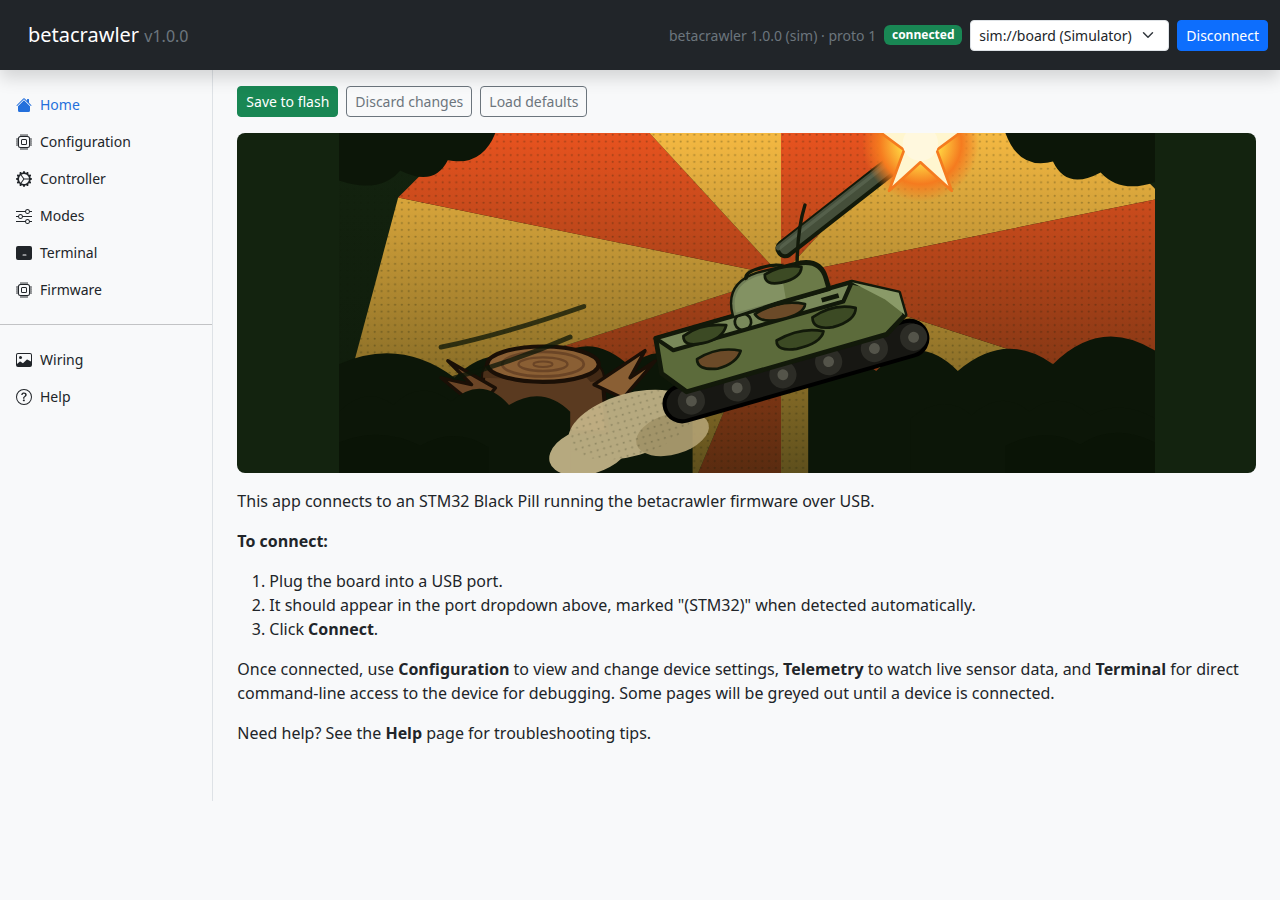
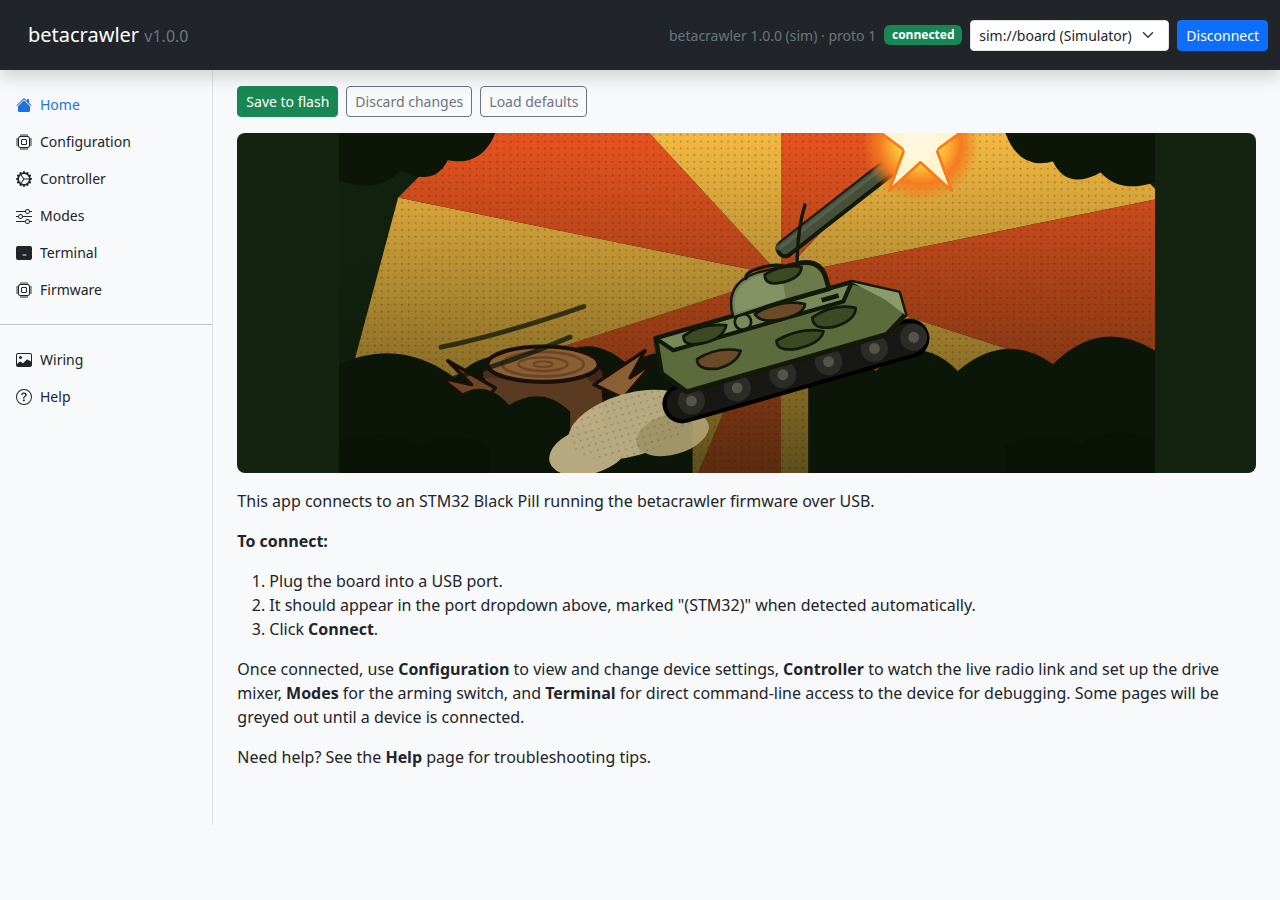
docs: add the Drive it section
Three pages taking a flashed board to a vehicle that drives the way you
want: starting the server and connecting, the ordered bring-up, and the
tuning knobs.

First setup is ordered deliberately -- bind, CRSF pad, protocol, verify
channels, assign sticks, arm switch, ESC direction, save -- because each
step is unverifiable until the one before it has taken.

The app's Home page pointed at a Telemetry page that the nav does not
have; it now names the pages that exist.

Changed region(s): [[0.1875, 0.7156, 0.9688, 0.8711]]

diff --git a/app/web/pages/home.html b/app/web/pages/home.html
@@ -9,7 +9,8 @@
             <li>Click <strong>Connect</strong>.</li>
           </ol>
           <p>Once connected, use <strong>Configuration</strong> to view and change device settings,
-             <strong>Telemetry</strong> to watch live sensor data, and <strong>Terminal</strong> for direct
+             <strong>Controller</strong> to watch the live radio link and set up the drive mixer,
+             <strong>Modes</strong> for the arming switch, and <strong>Terminal</strong> for direct
              command-line access to the device for debugging. Some pages will be greyed out until a device is
              connected.</p>
           <p>Need help? See the <strong>Help</strong> page for troubleshooting tips.</p>

diff --git a/docs/drive/first-setup.md b/docs/drive/first-setup.md
@@ -1,0 +1,98 @@
+# First setup
+
+This is the page that decides whether your vehicle drives properly. Work through it in order —
+each step depends on the one before it.
+
+!!! danger "Chock the tracks up off the ground"
+
+    Until you have been all the way through this page at least once, prop the chassis up so the
+    tracks spin free. An arming switch in the wrong place or a mis-assigned channel means the
+    vehicle takes off across the room the moment it arms.
+
+## 1. Bind the receiver
+
+Bind the receiver to your handset using its own procedure — Betacrawler is not involved and
+cannot help here.
+
+## 2. Switch the receiver pad to CRSF
+
+A receiver's output pads ship configured as PWM servo outputs. One must be reassigned to CRSF in
+the receiver's own menu. Nothing arrives until you do, and there is no error message to tell you
+so — the channels simply stay empty.
+
+## 3. Set the protocol
+
+On the **Controller** page, set **Protocol**:
+
+- `elrs` — the default, and what you want for an ELRS receiver.
+- `crossfire` — for a TBS Crossfire receiver.
+
+## 4. Check the channels are arriving
+
+![The Controller page, showing live channels and the drive mixer](../assets/screenshots/controller.png)
+
+The **RC Channels** panel shows every channel as a live bar. Move the sticks on your handset and
+watch them move.
+
+If nothing moves, stop here — steps 1 to 3 have not taken. Everything after this depends on the
+channels arriving.
+
+## 5. Assign the sticks
+
+Still on **Controller**:
+
+| Setting | Default | What it is |
+|---|---|---|
+| Throttle Src | `ch2` | Forwards and backwards |
+| Steer Src | `ch1` | Left and right |
+
+Those defaults suit a Mode 2 handset, which puts elevator on channel 2 and aileron on channel 1 —
+the pair that falls under your thumbs. Change them if your handset differs.
+
+Watch the **Left Output** and **Right Output** values as you move the sticks. Push throttle
+forward and both should rise together; steer and they should move apart.
+
+## 6. Set the arming switch
+
+![The Modes page, showing the arm switch and its range](../assets/screenshots/modes.png)
+
+On the **Modes** page, the **ARM** row picks which switch arms the vehicle:
+
+| Setting | Default | What it is |
+|---|---|---|
+| Arm Src | `ch5` | The channel your arming switch is on. `none` disables arming entirely. |
+| Arm Min | 1700 µs | Bottom of the "armed" band |
+| Arm Max | 2000 µs | Top of the "armed" band |
+
+The defaults expect a two-position switch on channel 5, armed when flipped up. Flip your switch
+and check the marker moves in and out of the highlighted band.
+
+While disarmed, both ESC outputs are held at neutral no matter what the sticks do.
+
+## 7. Set both ESCs to bidirectional
+
+This one is done in **BLHeli Configurator**, not in Betacrawler. Connect each ESC in turn and set
+its motor direction to **Bidirectional**.
+
+The firmware already expects this: `esc0.direction` and `esc1.direction` both default to
+`bidirectional`. If you skip it, the vehicle will only ever drive forwards.
+
+## 8. Save
+
+Press **Save to flash**.
+
+Changes apply to the running board the instant you make them, but they live in RAM until you
+save. Power-cycle without saving and you are back to where you started.
+
+## 9. First drive
+
+With the tracks still off the ground, arm and give it a little throttle. Check:
+
+- Both tracks turn the same way for forward throttle.
+- Steering makes them differ.
+- Disarming stops both.
+
+If one track runs backwards, swap any two motor wires on that ESC. If the two tracks are swapped
+left-for-right, change `esc0.src` and `esc1.src` rather than rewiring.
+
+Then put it on the ground and go to [Tuning](tuning.md).

diff --git a/docs/drive/tuning.md b/docs/drive/tuning.md
@@ -1,0 +1,57 @@
+# Tuning
+
+Once it drives, these are the settings that change how it drives. All of them are on the
+**Controller** page unless noted, and all apply the instant you change them — press **Save to
+flash** when you are happy.
+
+## Speed and steering limits
+
+Three independent caps, each a percentage of full authority, all defaulting to 100:
+
+| Setting | Range | What it does |
+|---|---|---|
+| Forward Ratio | 0–100% | Caps forward speed |
+| Reverse Ratio | 0–100% | Caps reverse speed |
+| Steer Ratio | 0–100% | Caps how much steering can differ the two tracks |
+
+They are deliberately independent. Capping forward speed leaves your pivot-on-the-spot alone,
+because a pivot happens at zero throttle. Capping steering leaves straight-line speed alone.
+
+A heavy chassis with fast motors is usually much easier to drive with Forward and Reverse pulled
+down to 60–70% and Steer lower still.
+
+## Deadband
+
+**Channel Deadband** (`rx.deadband_us`, 0–200 µs, default 0) ignores small stick movements around
+centre.
+
+Raise it if the vehicle creeps when the sticks are centred and released. Start around 10–20 µs
+and go up only as far as you need — deadband is dead stick travel, so more is not better.
+
+## ESC frame rate
+
+**PWM Rate** (`esc0.rate` / `esc1.rate`) sets how often each ESC is sent a new command: 50, 100,
+200 or 400 Hz. The default is 50 Hz, which every analog ESC accepts.
+
+A BLHeli-S ESC handles 400 Hz and cuts up to 20 ms of delay between stick and motor. Raise it if
+the vehicle feels sluggish to respond. Set both ESCs the same.
+
+## ESC calibration
+
+**Min** and **Max** (`esc0.min_us` / `esc0.max_us`, defaults 1000 and 2000 µs) are the endpoints
+the ESC was calibrated to. Change them only to match an ESC that expects a different range. The
+two bounds cannot cross.
+
+!!! warning "Do not use Min and Max to limit speed"
+
+    It is tempting, and it does not do what you want. The calibration range also sets where
+    neutral sits, so narrowing it moves your stop point and the vehicle will creep or refuse to
+    reverse.
+
+    Use Forward Ratio and Reverse Ratio instead. That is what they are for.
+
+## Telemetry rate
+
+**UI Telemetry Rate** (`tlm.rate`, 1–50 Hz, default 10) on the **Configuration** page controls
+how often the board pushes live values to the app. It affects the display only, never how the
+vehicle drives.

diff --git a/docs/drive/install-and-connect.md b/docs/drive/install-and-connect.md
@@ -1,0 +1,51 @@
+# Install and connect
+
+The app is a small web server you run on your own machine. It talks to the board over USB and
+serves the interface to your browser.
+
+## First time only
+
+Create the Python environment the server runs in:
+
+```bash
+python3 -m venv app/.venv
+app/.venv/bin/pip install -r app/requirements.txt
+```
+
+## Starting it
+
+```bash
+./run-server.sh
+```
+
+Then open <http://127.0.0.1:9090>.
+
+It runs in the foreground: logs appear in that terminal, and Ctrl+C stops it. To use a different
+port:
+
+```bash
+PORT=9000 ./run-server.sh
+```
+
+## Connecting to the board
+
+![The app's Home page, connected](../assets/screenshots/home.png)
+
+1. Plug the board into a USB port.
+2. Pick it from the dropdown at the top right. A board running Betacrawler is labelled
+   **(STM32)**.
+3. Click **Connect**.
+
+The badge next to the dropdown reads **connected** once it is talking to the board, along with
+the firmware version it found.
+
+## If there is no board yet
+
+The dropdown also offers **Simulated board (no hardware)**. It is a fake device built into the
+app that answers exactly as a real one would, so you can look around the interface before your
+parts arrive. Nothing it reports is real.
+
+## Pages that need a connection
+
+Most pages grey out until a device is connected. **Firmware** deliberately does not — it is the
+tool you need when a board is in a bad state, so it stays reachable.
